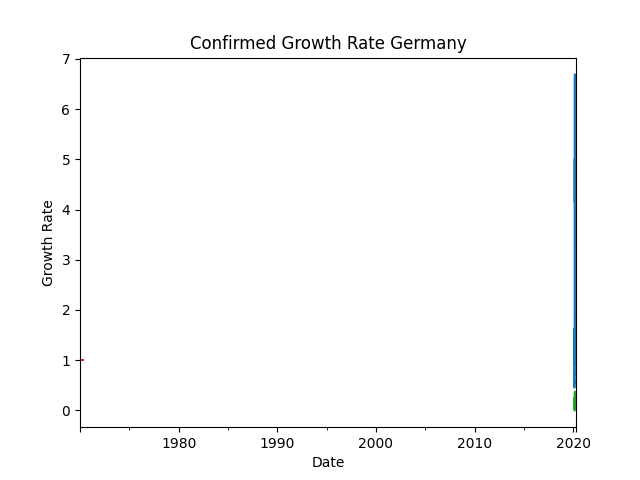
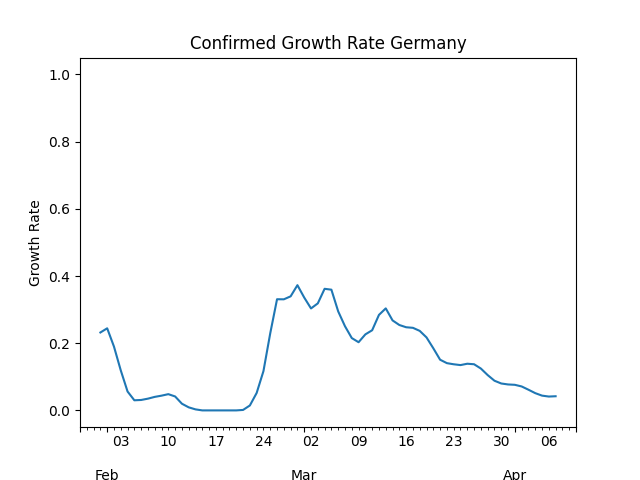
growth

diff --git a/growth_analysis.py b/growth_analysis.py
@@ -144,6 +144,6 @@ ld = xp.DataLoader(top=top)
 df = ld.covid_data
 cv = country_view(df, country)
 cv = augment_view(cv, "Confirmed")
-plot_view(cv, "Confirmed", country, False)
+plot_view(cv, "Confirmed", country, True)
 print(country, "\n", cv)
 
